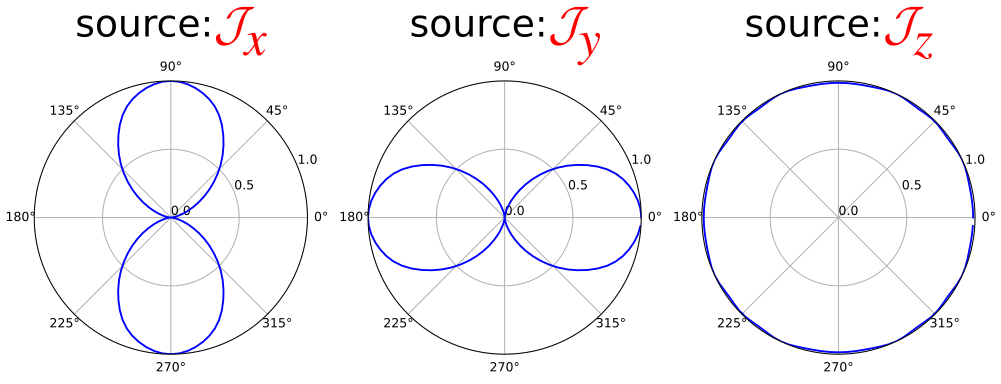
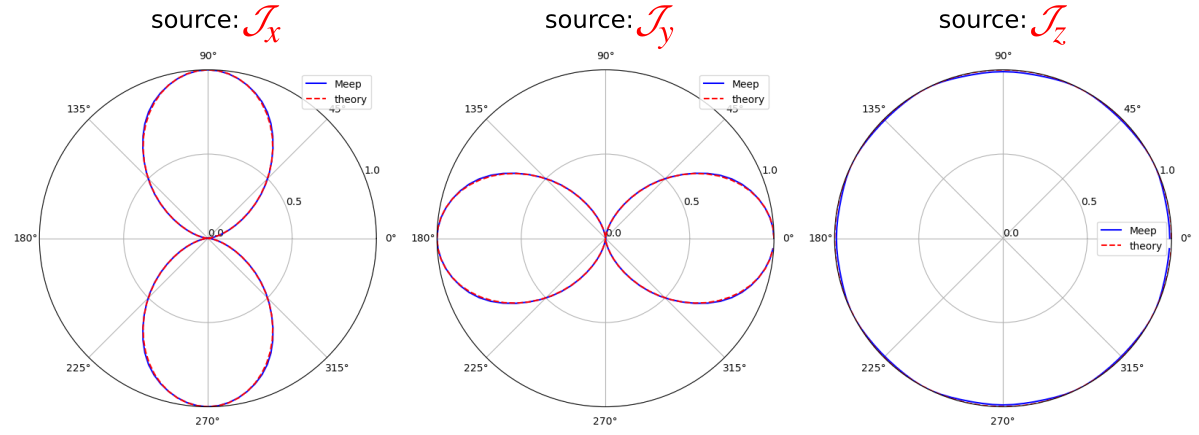
Add radiation pattern from antenna theory to tutorial for near-to-far field transformation (#2746)
* add analytic radiation pattern to plot in antenna-radiation.py

* update figure in tutorial

* add description to text

diff --git a/python/examples/antenna-radiation.py b/python/examples/antenna-radiation.py
@@ -1,5 +1,7 @@
 import math
+import matplotlib
 
+matplotlib.use("agg")
 import matplotlib.pyplot as plt
 import numpy as np
 
@@ -15,7 +17,7 @@ pml_layers = [mp.PML(dpml)]
 
 fcen = 1.0
 df = 0.4
-src_cmpt = mp.Ez
+src_cmpt = mp.Ex
 sources = [
     mp.Source(
         src=mp.GaussianSource(fcen, fwidth=df), center=mp.Vector3(), component=src_cmpt
@@ -28,6 +30,8 @@ elif src_cmpt == mp.Ey:
     symmetries = [mp.Mirror(mp.X, phase=+1), mp.Mirror(mp.Y, phase=-1)]
 elif src_cmpt == mp.Ez:
     symmetries = [mp.Mirror(mp.X, phase=+1), mp.Mirror(mp.Y, phase=+1)]
+else:
+    symmetries = []
 
 sim = mp.Simulation(
     cell_size=cell,
@@ -95,11 +99,11 @@ for n in range(npts):
     ff = sim.get_farfield(
         nearfield_box, mp.Vector3(r * math.cos(angles[n]), r * math.sin(angles[n]))
     )
-    E[n, :] = [np.conj(ff[j]) for j in range(3)]
+    E[n, :] = [ff[j] for j in range(3)]
     H[n, :] = [ff[j + 3] for j in range(3)]
 
-Px = np.real(E[:, 1] * H[:, 2] - E[:, 2] * H[:, 1])
-Py = np.real(E[:, 2] * H[:, 0] - E[:, 0] * H[:, 2])
+Px = np.real(np.conj(E[:, 1]) * H[:, 2] - np.conj(E[:, 2]) * H[:, 1])
+Py = np.real(np.conj(E[:, 2]) * H[:, 0] - np.conj(E[:, 0]) * H[:, 2])
 Pr = np.sqrt(np.square(Px) + np.square(Py))
 
 # integrate the radial flux over the circle circumference
@@ -107,10 +111,28 @@ far_flux_circle = np.sum(Pr) * 2 * np.pi * r / len(Pr)
 
 print(f"flux:, {near_flux:.6f}, {far_flux_box:.6f}, {far_flux_circle:.6f}")
 
-ax = plt.subplot(111, projection="polar")
-ax.plot(angles, Pr / max(Pr), "b-")
+# Analytic formulas for the radiation pattern as the Poynting vector
+# of an electric dipole in vacuum. From Section 4.2 "Infinitesimal Dipole"
+# of Antenna Theory: Analysis and Design, 4th Edition (2016) by C. Balanis.
+if src_cmpt == mp.Ex:
+    flux_theory = np.sin(angles) ** 2
+elif src_cmpt == mp.Ey:
+    flux_theory = np.cos(angles) ** 2
+elif src_cmpt == mp.Ez:
+    flux_theory = np.ones((npts,))
+
+fig, ax = plt.subplots(subplot_kw={"projection": "polar"}, figsize=(6, 6))
+ax.plot(angles, Pr / max(Pr), "b-", label="Meep")
+ax.plot(angles, flux_theory, "r--", label="theory")
 ax.set_rmax(1)
 ax.set_rticks([0, 0.5, 1])
 ax.grid(True)
 ax.set_rlabel_position(22)
-plt.show()
+ax.legend()
+
+if mp.am_master():
+    fig.savefig(
+        f"radiation_pattern_{mp.component_name(src_cmpt)}.png",
+        dpi=150,
+        bbox_inches="tight",
+    )

diff --git a/doc/docs/Python_Tutorials/Near_to_Far_Field_Spectra.md b/doc/docs/Python_Tutorials/Near_to_Far_Field_Spectra.md
@@ -9,7 +9,7 @@ The [near-to-far field transformation](../Python_User_Interface.md#near-to-far-f
 Radiation Pattern of an Antenna
 -------------------------------
 
-In this example, we compute the [radiation pattern](https://en.wikipedia.org/wiki/Radiation_pattern) of an antenna in free space. This involves computing the far fields of an electric-current point dipole emitter in vacuum. The source is placed at the center of a 2D cell surrounded by PML. The near fields are obtained on a bounding box defined along the edges of the non-PML region. The far fields are computed in two ways from *closed* surfaces: (1) sides of a square and (2) circumference of a circle, having a length/radius many times larger than the source wavelength and lying beyond the cell. From both the near and far fields, we will also compute the total outgoing Poynting flux and demonstrate that they are equivalent. Results will be shown for three orthogonal polarizations of the input source.
+In this example, we compute the [radiation pattern](https://en.wikipedia.org/wiki/Radiation_pattern) of an antenna in free space. The calculation involves computing the far fields of an electric-current point dipole emitter in vacuum. The source is placed at the center of a 2D cell surrounded by PML. The near fields are obtained on a bounding box defined along the edges of the non-PML region. The far fields are computed in two ways from *closed* surfaces: (1) sides of a square and (2) circumference of a circle, having a length or radius many times larger than the source wavelength and lying beyond the cell. From both the near and far fields, we will also compute the total outgoing Poynting flux and demonstrate that they are equivalent. Results will be shown for three orthogonal dipole orientations and verified using antenna theory.
 
 The simulation geometry is shown in the following schematic.
 
@@ -38,7 +38,7 @@ pml_layers = [mp.PML(dpml)]
 
 fcen = 1.0
 df = 0.4
-src_cmpt = mp.Ez
+src_cmpt = mp.Ex
 sources = [mp.Source(src=mp.GaussianSource(fcen,fwidth=df),
                     center=mp.Vector3(),
                     component=src_cmpt)]
@@ -52,6 +52,8 @@ elif src_cmpt == mp.Ey:
 elif src_cmpt == mp.Ez:
     symmetries = [mp.Mirror(mp.X,phase=+1),
                   mp.Mirror(mp.Y,phase=+1)]
+else:
+    symmetries = []
 
 sim = mp.Simulation(cell_size=cell,
                     resolution=resolution,
@@ -119,7 +121,7 @@ far_flux_box = (nearfield_box.flux(mp.Y,
                                    res_ff)[0])
 ```
 
-For the second of two cases, we use the `get_farfield` routine to compute the far fields by looping over a set of 100 equally-spaced points along the circumference of a circle with radius of 1 mm. The six far field components ($E_x$, $E_y$, $E_z$, $H_x$, $H_y$, $H_z$) are stored as separate arrays of complex numbers. From the far fields at each point $\mathbf{r}$, we compute the outgoing or radial flux: $\sqrt{P_x^2+P_y^2}$, where $P_x$ and $P_y$ are the components of the Poynting vector $\mathbf{P}(\mathbf{r})=(P_x,P_y,P_z)=\mathrm{Re}\, \mathbf{E}(\mathbf{r})^*\times\mathbf{H}(\mathbf{r})$. Note that $P_z$ is always 0 since this is a 2d simulation. The total flux is computed and the three flux values are displayed.
+For the second of two cases, we use the `get_farfield` routine to compute the far fields by looping over a set of 100 equally spaced points along the circumference of a circle with radius of 1 mm. The six far field components ($E_x$, $E_y$, $E_z$, $H_x$, $H_y$, $H_z$) are stored as separate arrays of complex numbers. From the far fields at each point $\mathbf{r}$, we compute the outgoing or radial flux: $\sqrt{P_x^2+P_y^2}$, where $P_x$ and $P_y$ are the components of the Poynting vector $\mathbf{P}(\mathbf{r})=(P_x,P_y,P_z)=\mathrm{Re}\, \mathbf{E}(\mathbf{r})^*\times\mathbf{H}(\mathbf{r})$. Note that $P_z$ is always 0 since this is a 2D simulation. The total flux is computed and the three flux values are displayed.
 
 ```py
 npts = 100  # number of points in [0,2*pi) range of angles
@@ -131,30 +133,49 @@ for n in range(npts):
     ff = sim.get_farfield(nearfield_box,
                           mp.Vector3(r*math.cos(angles[n]),
                                      r*math.sin(angles[n])))
-    E[n,:] = [np.conj(ff[j]) for j in range(3)]
+    E[n,:] = [ff[j] for j in range(3)]
     H[n,:] = [ff[j+3] for j in range(3)]
 
-Px = np.real(E[:,1]*H[:,2]-E[:,2]*H[:,1])
-Py = np.real(E[:,2]*H[:,0]-E[:,0]*H[:,2])
-Pr = np.sqrt(np.square(Px)+np.square(Py))
+Px = np.real(np.conj(E[:, 1]) * H[:, 2] - np.conj(E[:, 2]) * H[:, 1])
+Py = np.real(np.conj(E[:, 2]) * H[:, 0] - np.conj(E[:, 0]) * H[:, 2])
+Pr = np.sqrt(np.square(Px) + np.square(Py))
 
 # integrate the radial flux over the circle circumference
 far_flux_circle = np.sum(Pr)*2*np.pi*r/len(Pr)
 
 print("flux:, {:.6f}, {:.6f}, {:.6f}".format(near_flux,far_flux_box,far_flux_circle))
 
-ax = plt.subplot(111, projection='polar')
+# Analytic formulas for the radiation pattern as the Poynting vector
+# of an electric dipole in vacuum. From Section 4.2 "Infinitesimal Dipole"
+# of Antenna Theory: Analysis and Design, 4th Edition (2016) by C. Balanis.
+if src_cmpt == mp.Ex:
+    flux_theory = np.sin(angles) ** 2
+elif src_cmpt == mp.Ey:
+    flux_theory = np.cos(angles) ** 2
+elif src_cmpt == mp.Ez:
+    flux_theory = np.ones((npts,))
+
+fig, ax = plt.subplots(subplot_kw={"projection": "polar"}, figsize=(6, 6))
 ax.plot(angles,Pr/max(Pr),'b-')
 ax.set_rmax(1)
 ax.set_rticks([0,0.5,1])
 ax.grid(True)
 ax.set_rlabel_position(22)
-plt.show()
+ax.legend()
+
+if mp.am_master():
+    fig.savefig(
+        f"radiation_pattern_{mp.component_name(src_cmpt)}.png",
+        dpi=150,
+        bbox_inches="tight",
+    )
 ```
 
 By [Poynting's theorem](https://en.wikipedia.org/wiki/Poynting%27s_theorem), the total outgoing flux obtained by integrating around a *closed* surface should be the same whether it is calculated from the near or far fields (unless there are sources or absorbers in between). The flux of the near fields for the $J_z$ source is 2.456196 and that for the far fields is 2.458030 (box) and 2.457249 (circle). The ratio of near- to far-field (circle) flux is 0.999571. Similarly, for the $J_x$ source, the values are 1.227786 (near-field), 1.227651 (far-field box), and 1.227260 (far-field circle). The ratio of near- to far-field (circle) flux is 1.000429. The slight differences in the flux values are due to discretization effects and will decrease as the resolution is increased.
 
-Finally, we plot the radial flux normalized by its maximum value over the entire interval to obtain a range of values between 0 and 1. These are shown below in the linearly-scaled, polar-coordinate plots. The three figures are obtained using separate runs involving a `src_cmpt` of $E_x$, $E_y$, and $E_z$. As expected, the $J_x$ and $J_y$ sources produce [dipole](https://en.wikipedia.org/wiki/Electric_dipole_moment) radiation patterns while $J_z$ has a monopole pattern.
+From antenna theory, a linearly polarized dipole with orientation along $\theta = 0^{\circ}$ produces a $\sin^2(\theta)$ radiation pattern in 2D. This contains two lobes (a "dipole") at $\theta = 90^{\circ}$ and $\theta = 270^{\circ}$. The same radiation pattern in 3D resembles a "donut." For reference, see Section 4.2 "Infinitesimal Dipole" of Antenna Theory: Analysis and Design, 4th Edition (2016) by C Balanis.
+
+Finally, we plot the radial flux normalized by its maximum value over the entire interval to obtain a range of values between 0 and 1. These are shown below in the linearly scaled, polar-coordinate plots. The three figures are obtained using separate runs involving a `src_cmpt` of $E_x$, $E_y$, and $E_z$. As expected, the $J_x$ and $J_y$ sources produce [dipole](https://en.wikipedia.org/wiki/Electric_dipole_moment) radiation patterns while $J_z$ has a monopole pattern. The radiation pattern from the simulation agrees with the analytic result for all three dipole orientations.
 
 ```py
 ax = plt.subplot(111, projection='polar')
